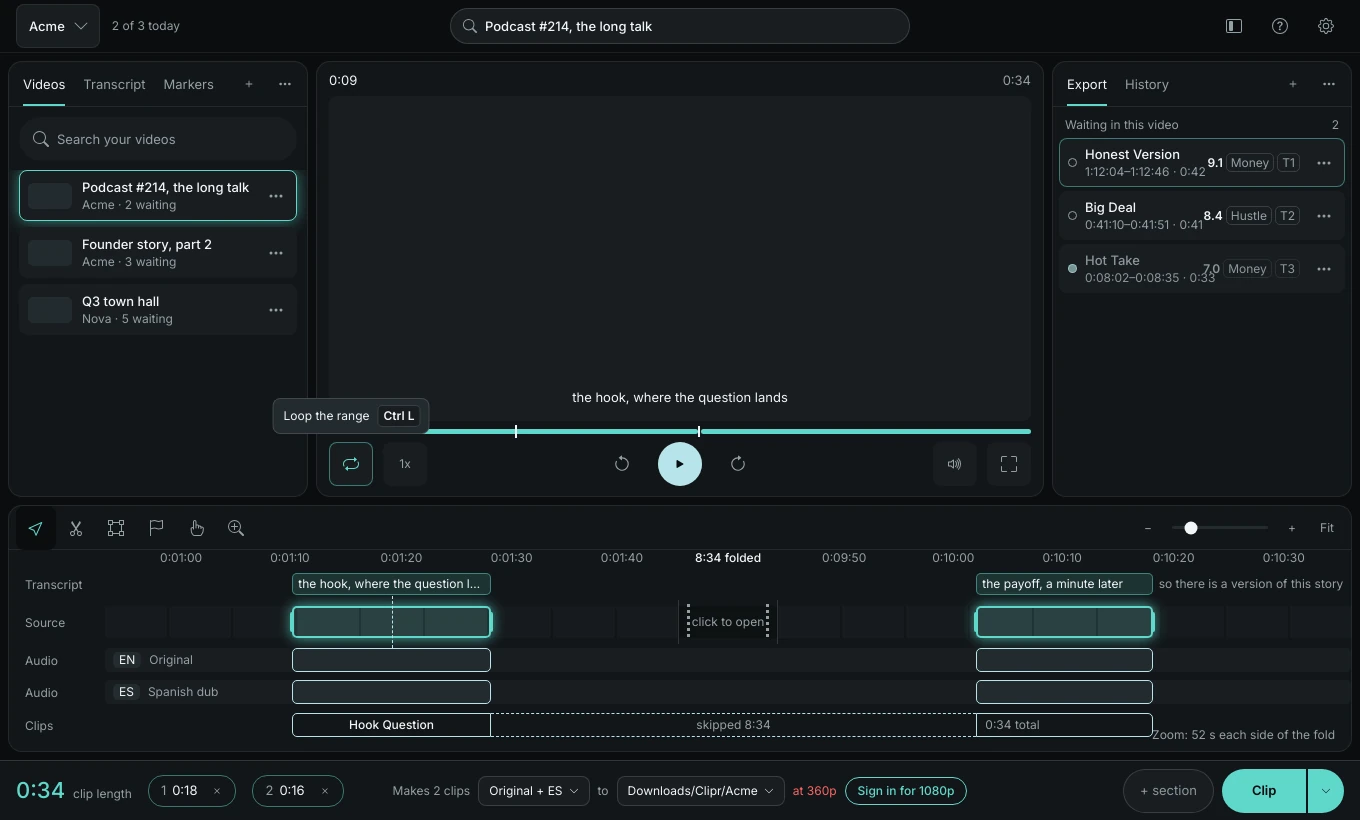
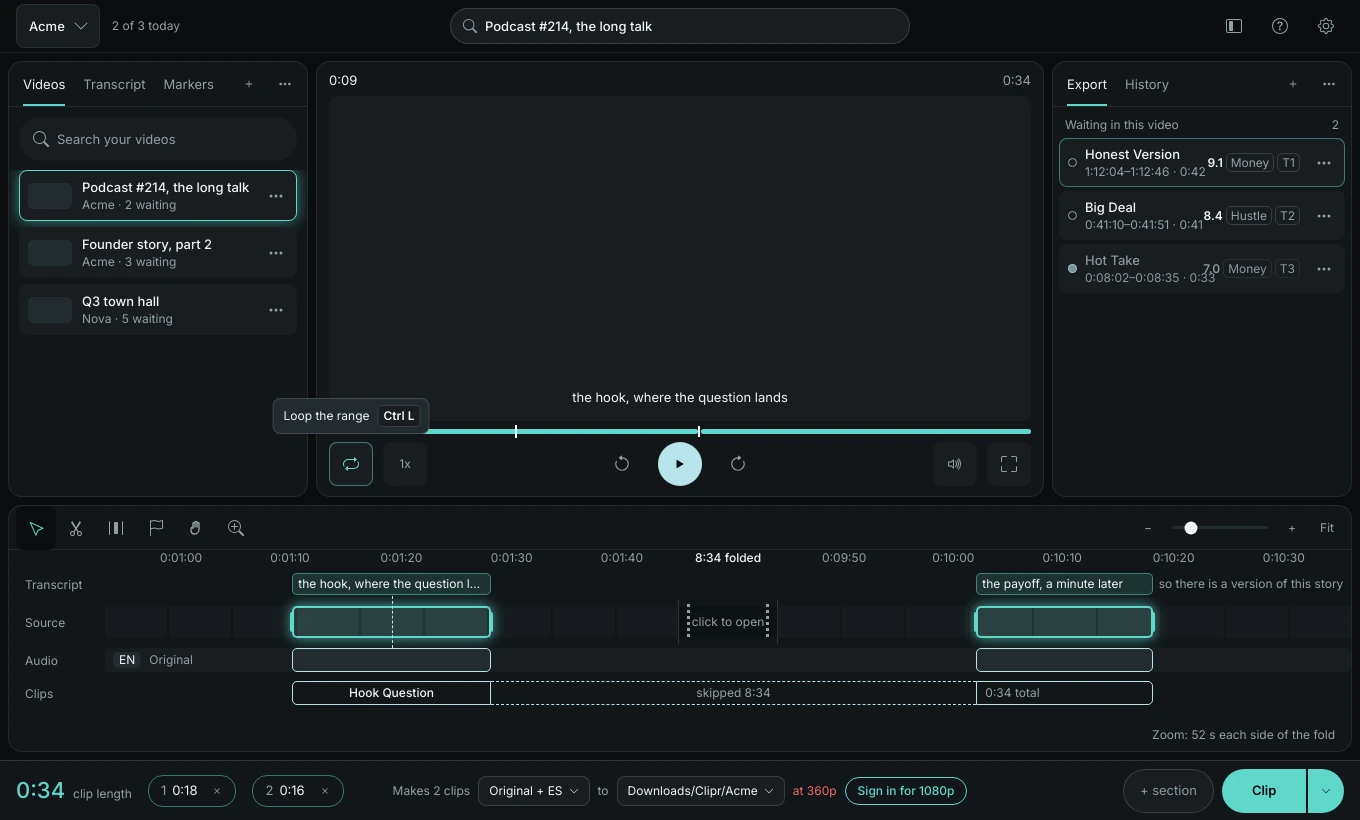
Website: What's new 19.2 folds in 19.2.3 to 19.2.5
The 19.2 section now covers 19.2.3 to 19.2.5 in the reference layout, with screenshots from the latest app.

diff --git a/whats-new/index.html b/whats-new/index.html
@@ -632,7 +632,7 @@
       (function () {
         var NOTES = {
   "19.2": {
-    "intro": "Build one clip from several parts of a video, drag sections to move or join them, plus a new look for every icon.",
+    "intro": "Build one clip from several sections, join them by touching, type exact In and Out times, and a new look for every icon.",
     "highlights": [
       {
         "tag": "New",
@@ -642,38 +642,48 @@
         "shot": "v192-app.webp",
         "w": 1360,
         "h": 820,
-        "alt": "The Clipr window with two locked sections on the timeline, the stretch between them folded away, and a + section button next to Clip.",
-        "text": "Press + section to lock the range you picked and start another. Each section shows on the timeline and in the footer with its own length, and Clip joins them into one clip.",
+        "alt": "The Clipr window with two locked sections on the timeline, the stretch between them folded away, new tool icons and a + section button next to Clip.",
+        "text": "Press + section to lock the range you picked and start another. Each section shows on the timeline and in the footer with its own length, and Clip joins them into one clip. The audio lane now shows only the original, with no dub lanes.",
         "caption": "The real app with sample data."
       },
       {
         "tag": "New",
-        "title": "Drag a section, let go to join",
+        "title": "Touch a section and they join",
         "eyebrow": "Timeline",
         "layout": "split",
         "shot": "v192-merge.webp",
         "w": 630,
         "h": 210,
         "alt": "A section dragged over another one, with a light outline around both, grips on the edges and the note Joins when you let go.",
-        "text": "Drag a range with the Pointer and a small pill shows its exact start and end times. Drop it on another section and a light outline shows the result: they join into one. Grips on the edges fine tune each end.",
+        "text": "Drag a range with the Pointer and a small pill shows its exact start and end times. Drop it on another section, or draw or resize a range until it touches one, and a light outline shows the result: they join into one. The edges have grips with hover and press looks.",
         "caption": "Joins when you let go.",
         "glow": true
       },
       {
-        "tag": "Improved",
-        "title": "Campaigns live in Settings",
-        "eyebrow": "Settings",
+        "tag": "New",
+        "title": "Type the start and end times",
+        "eyebrow": "Footer",
         "layout": "split-flip",
-        "shot": "v192-settings.webp",
-        "w": 440,
-        "h": 470,
-        "alt": "The Settings drawer listing the campaigns Acme and Nova, each with clips a day and a gear icon.",
-        "text": "Settings now lists every campaign with its daily clips and a gear for its own settings. The campaign menu in the top bar has the same gear on each row, and the separate settings line is gone.",
-        "caption": "Settings, Campaigns.",
+        "shot": "v192-inout.webp",
+        "w": 640,
+        "h": 300,
+        "alt": "The timeline and footer, with the In and Out times as two fields beside the clip length and the new tool icons above the timeline.",
+        "text": "In and Out in the footer are now fields. Type or paste a time like 1:12:04 and the range moves to it. The tools above the timeline have new icons: the Pointer faces left, Range reads as a range, and Hand stays open.",
+        "caption": "In and Out are fields.",
         "glow": true
       }
     ],
     "cards": [
+      {
+        "tag": "Improved",
+        "title": "Campaigns in Settings",
+        "shot": "v192-settings.webp",
+        "w": 440,
+        "h": 240,
+        "alt": "The Settings drawer listing the campaigns Acme and Nova with clips a day, each row ending in a chevron.",
+        "text": "Settings lists every campaign with its daily clips. Each row ends in a chevron that opens that campaign. The gear stays in the campaign menu in the top bar.",
+        "caption": "Sample data."
+      },
       {
         "tag": "Improved",
         "title": "Languages dropdown",
@@ -681,25 +691,15 @@
         "w": 440,
         "h": 220,
         "alt": "A Languages dropdown open with Original ticked and Spanish unticked.",
-        "text": "Languages is now a dropdown with tick boxes, shown only when the video has dubs. The separate Clips folder row is gone, since each campaign has its own folder.",
-        "caption": "Sample data."
-      },
-      {
-        "tag": "Improved",
-        "title": "New icons and update button",
-        "shot": "v192-update.webp",
-        "w": 560,
-        "h": 190,
-        "alt": "The top bar with a bright Restart app to update button and the new sidebar, help and settings icons.",
-        "text": "Every icon in Clipr has been redrawn with a cleaner, more familiar set. A new version shows as a bright Restart app to update button, and if a clip is being made it waits and says Restarts after the clip. On Mac it links to the download instead.",
+        "text": "Languages is a dropdown with tick boxes, shown only when the video has dubs. The separate Clips folder row is gone, since each campaign has its own folder.",
         "caption": "Sample data."
       }
     ],
     "changes": [
       {
         "group": "New",
-        "title": "Merge on release",
-        "text": "Letting go of a range on top of another joins them into one section."
+        "title": "Merge on touch",
+        "text": "A range you draw, resize or drop on another section joins it into one."
       },
       {
         "group": "New",
@@ -707,44 +707,54 @@
         "text": "While you move a range, a small pill over it shows its start and end times."
       },
       {
+        "group": "New",
+        "title": "One Final Cut project",
+        "text": "Each clip gets one Final Cut project with all its languages inside."
+      },
+      {
+        "group": "Improved",
+        "title": "Preview",
+        "text": "Preview plays only the range you picked, not the whole video."
+      },
+      {
+        "group": "Improved",
+        "title": "Zoom",
+        "text": "Zooming out starts from the left edge of the timeline, never the middle."
+      },
+      {
+        "group": "Improved",
+        "title": "Handles",
+        "text": "Range handles light up when you hover them and change when you press."
+      },
+      {
+        "group": "Improved",
+        "title": "No dub lanes",
+        "text": "The timeline shows one audio lane instead of a lane for every dub."
+      },
+      {
         "group": "Improved",
         "title": "Icons",
-        "text": "All icons are now Bootstrap Icons, at the same sizes and colours as before."
-      },
-      {
-        "group": "Improved",
-        "title": "Selection outline",
-        "text": "The outline sits exactly on the picture strip, with grips on both edges."
-      },
-      {
-        "group": "Improved",
-        "title": "Settings",
-        "text": "Settings lists your campaigns, and Languages is a dropdown. The Clips folder row is gone."
-      },
-      {
-        "group": "Improved",
-        "title": "Top bar",
-        "text": "The link field's panel is no longer hidden behind the video."
+        "text": "All icons are now Bootstrap Icons, with new tool icons above the timeline."
       },
       {
         "group": "Improved",
         "title": "Updates",
-        "text": "Restart to update waits for a clip that is being made, and you can cancel the wait."
+        "text": "Restart to update waits for a clip being made, and you can cancel the wait."
       },
       {
         "group": "Improved",
-        "title": "Mac",
-        "text": "Mac never offers an automatic restart, so Update automatically is hidden there."
+        "title": "Pasted links",
+        "text": "A pasted link opens in the background, and a failed open says why."
+      },
+      {
+        "group": "Fixed",
+        "title": "Slow start",
+        "text": "A slow first run of a tool now says it is still checking, not that it failed."
       },
       {
         "group": "Fixed",
         "title": "Folders",
-        "text": "Clipr checks that your chosen folders can be written to and says so when they cannot."
-      },
-      {
-        "group": "Fixed",
-        "title": "Crash reports",
-        "text": "Crash reports now reach the right place so problems can be fixed faster."
+        "text": "Clipr checks that your chosen folders can be written to and says so if not."
       }
     ]
   },
